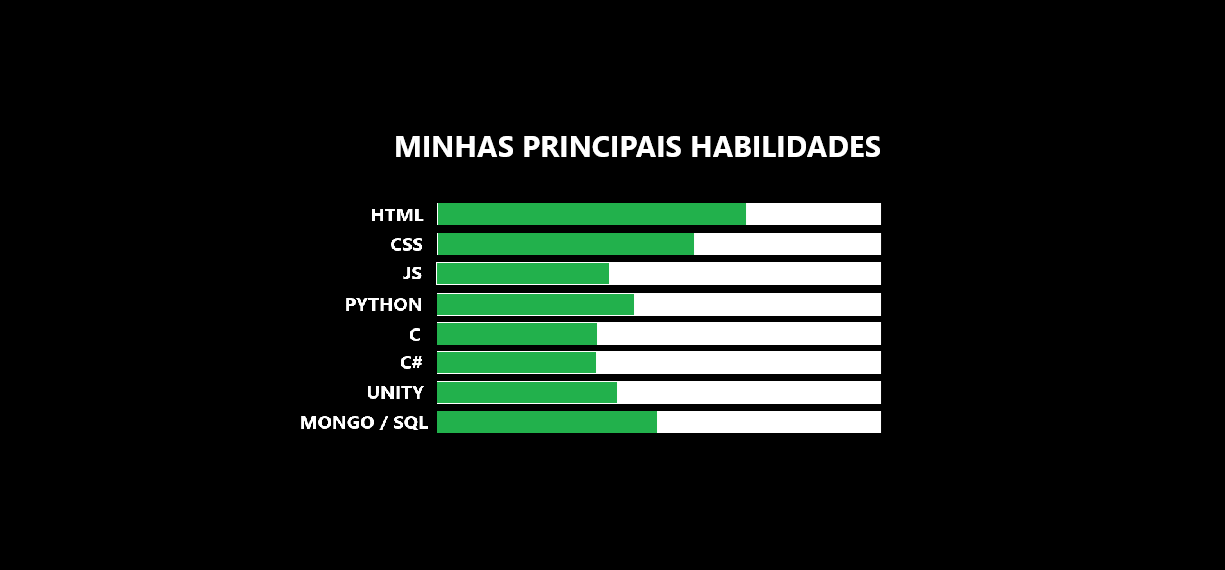
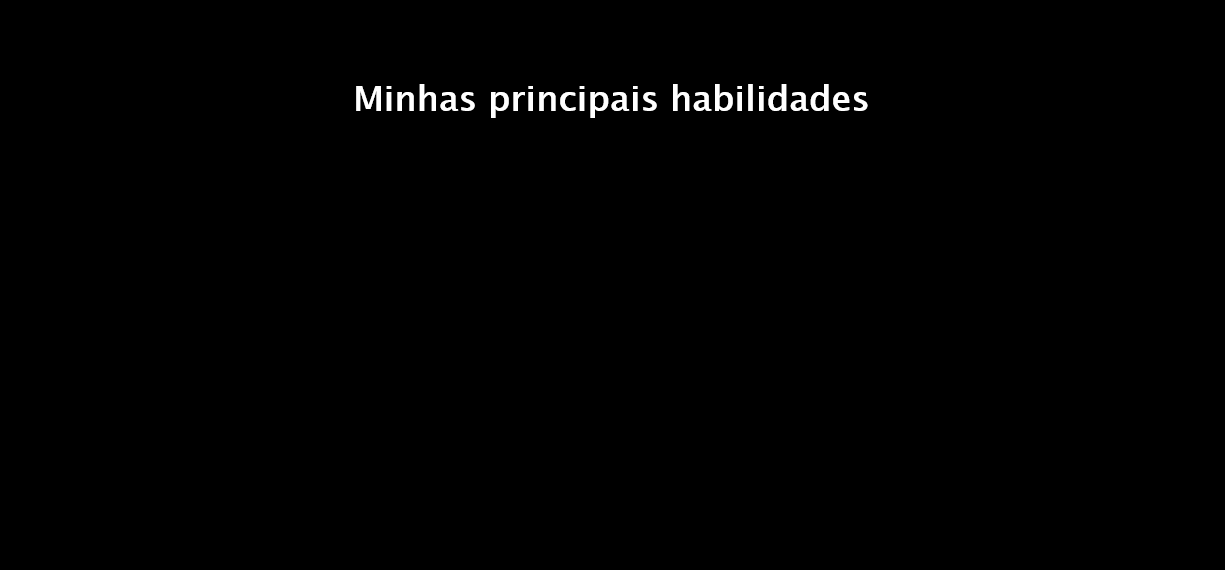
Add files via upload

Changed region(s): [[0.2482, 0.3579, 0.7445, 0.7754], [0.2792, 0.1491, 0.7135, 0.2088], [0.3102, 0.2386, 0.7445, 0.2982]]

diff --git a/styles/style.css b/styles/style.css
@@ -1,13 +1,20 @@
-html {
-    display: block;
-}
 body{
-    height: 100%;
+    min-width: 900px;
+    max-width: 100%;
     background-color: rgb(0, 0, 0);
     color: white;
     display: flex;
     align-items: center;
+    justify-content: center;
     margin: 0;
+    padding: 0;
+}
+
+.container {
+    width: 100%;
+    display: flex;
+    flex-direction: column;
+    align-items: center;
 }
 
 nav {
@@ -42,14 +49,6 @@ a {
     color: rgb(255, 255, 255);
 }
 
-.container {
-    display: flex;
-    flex-grow: 1;
-    flex-direction: column;
-    align-items: center;
-    margin-top: 60px;
-}
-
 .header {
     background-image: url(../img/cabeçalho.png);
     width: 100%;
@@ -74,28 +73,76 @@ a {
     background-position: center;
     display: flex;
     flex-direction:row;
+    justify-content: center;
 }
 
+/*
 .pages-internet {
     width: 100%;
     height: 495px;
+    margin: 0 0 0 0;
+    padding: 0;
+    display: flex;
+    flex-direction: row;
+    justify-content: center;    
+}
+
+#page1, #page2, #page3 {
+    width: 250px;
+    height: 250px;
     margin: 0;
     padding: 0;
-    align-items: center;
-    justify-content: center;
+}
+*/
+
+/****************************************************************************************************************/
+/*                                        AQUI COMEÇA O NOVO MÉTODO DO SLIDER                                   */
+/* Estilos do slider */
+.slider {
+    width: 100%;
+    overflow: hidden;
+    position: relative;
+    max-width: 1200px; /* Limitar o tamanho máximo do slider */
+    margin: 0 auto; /* Centralizar o slider na tela */
+}
+
+/* Container das imagens */
+.slider-container {
+    width: 100%;
+    overflow: hidden;
     display: flex;
+    flex-direction: row;
 }
 
-#page1, #page2, #page3, #page4 {
-    background-image: url(../img/page.png);
-    width: 243px;
-    height: 225px;
-    background-repeat: no-repeat;
-    background-size: 100%;
-    margin: 7em 1em 0 1em;
+/* Estilos para as imagens dentro do slider */
+.slider-images {
+    display: flex;
+    animation: slide 35s linear infinite; /* Animação para o slide */
 }
 
-#page1:hover, #page2:hover, #page3:hover, #page4:hover {
+.slider-images img {
+    width: 520px; /* Cada imagem ocupa 100% do contêiner */
+    height: 320px;
+    object-fit: cover; /* Ajusta a imagem para preencher a área */
+    margin: 9em 0 0 6em;
+    padding: 0;
+    border-radius: 1em;
+}
+
+/* Definindo a animação do slide */
+@keyframes slide {
+    0% {
+        transform: translateX(0); /* Imagem 1 visível */
+    }
+    100% {
+        transform: translateX(-100%);
+    }
+}
+/*                               AQUI ENCERRA O NOVO MÉTODO DO SLIDER                                */
+/*****************************************************************************************************/
+
+#img1:hover, #img2:hover, #img3:hover, #img4:hover, #img5:hover,
+#img6:hover, #img7:hover, #img8:hover {
     opacity: 0.7;
     box-shadow: 0 0 10px rgba(0, 0, 0, 0.5);
     border-radius: 1em;
@@ -107,6 +154,44 @@ a {
     height: 570px;
     background-repeat: no-repeat;
     background-position: center;
+    align-items: center;
+    justify-content: center;
+    display: flex;
+}
+
+#skills-language {
+    background-image: url(../img/habilidadesProgramacao.png);
+    background-size: 100%;
+    width: 290px;
+    height: 193.5px;
+    background-repeat: no-repeat;
+    background-position: center;
+    margin-top: 6em;
+    padding: 0;
+}
+
+#skills-web {
+    background-image: url(../img/habilidadesWebDev.png);
+    background-size: 100%;
+    width: 362.5px;
+    height: 286.5px;
+    background-repeat: no-repeat;
+    background-position: center;
+    margin-left: 5em;
+    margin-top: 6em;
+    padding: 0;
+}
+
+#skills-game {
+    background-image: url(../img/habilidadesGame.png);
+    background-size: 100%;
+    width: 271px;
+    height: 193.5px;
+    background-repeat: no-repeat;
+    background-position: center;
+    margin-top: 6em;
+    margin-left: 5em;
+    padding: 0;
 }
 
 .section4-formacoes {

diff --git a/index.html b/index.html
@@ -2,9 +2,10 @@
 <html lang="pt-br">
 <head>
     <meta charset="UTF-8">
-    <meta name="viewport" content="width=device-width, initial-scale=1.0">
+    <meta name="viewport" content="width=device-width, minimum-scale=0.3 , maximum-scale=1.0">
     <link rel="stylesheet" href="./styles/style.css">
     <link href="./fontawesome/css/all.css" rel="stylesheet">
+
     <title>Document</title>
 </head>
 <body>
@@ -26,17 +27,51 @@
  
         <section class="section1-apresentacao"></section>
 
+<!-- AQUI COMEÇA O NOVO MÉTODO DE SLIDER-->
         <section class="section2-projetos">
-            <div class="pages-internet">
-                <div id="page1"></div>
-                <div id="page2"></div>
-                <div id="page3"></div>
-                <div id="page4"></div>
+            <div class="slider">
+                <div class="slider-container">
+                    <div class="slider-images">
+                        <img src="./img/siteCobras.png" alt="Imagem 1" id="img1">
+                        <img src="./img/siteAnaBella.png" alt="Imagem 2" id="img2">
+                        <img src="./img/siteEbooks.png" alt="Imagem 3" id="img3">
+                        <img src="./img/siteUnes.png" alt="Imagem 4" id="img4">
+                        <img src="./img/siteTecBlog.png" alt="Imagem 5" id="img5">
+                        <img src="./img/sitePortifolioTecnologia.png" alt="Imagem 6" id="img6">
+                        <img src="./img/sitePortifolioUX-UI.png" alt="Imagem 7" id="img7">
+                        <img src="./img/sitePortifolio.png" alt="Imagem 8" id="img8">
+                    </div>
+                    <div class="slider-images">
+                        <img src="./img/siteCobras.png" alt="Imagem 1" id="img1">
+                        <img src="./img/siteAnaBella.png" alt="Imagem 2" id="img2">
+                        <img src="./img/siteEbooks.png" alt="Imagem 3" id="img3">
+                        <img src="./img/siteUnes.png" alt="Imagem 4" id="img4">
+                        <img src="./img/siteTecBlog.png" alt="Imagem 5" id="img5">
+                        <img src="./img/sitePortifolioTecnologia.png" alt="Imagem 6" id="img6">
+                        <img src="./img/sitePortifolioUX-UI.png" alt="Imagem 7" id="img7">
+                        <img src="./img/sitePortifolio.png" alt="Imagem 8" id="img8">
+                    </div>
+                </div>
             </div>
         </section>
+<!-- AQUI ENCERRA O NOVO MÉTODO DE SLIDER-->
 
-        <section class="section3-experiencia"></section>
+        <!--
         
+            <div class="pages-internet">
+                <img src="./img/page.png" id="page1">
+                <img src="./img/page.png" id="page2">
+                <img src="./img/page.png" id="page3">
+            </div>
+        </section>
+        -->
+
+        <section class="section3-experiencia">
+            <div id="skills-language"></div>
+            <div id="skills-web"></div>
+            <div id="skills-game"></div>
+        </section>
+
         <section class="section4-formacoes">
             <div class="formacoes">
                 <a id="formacao1" href="#"><img src="./img/udemyLogo.png" alt=""></a>
